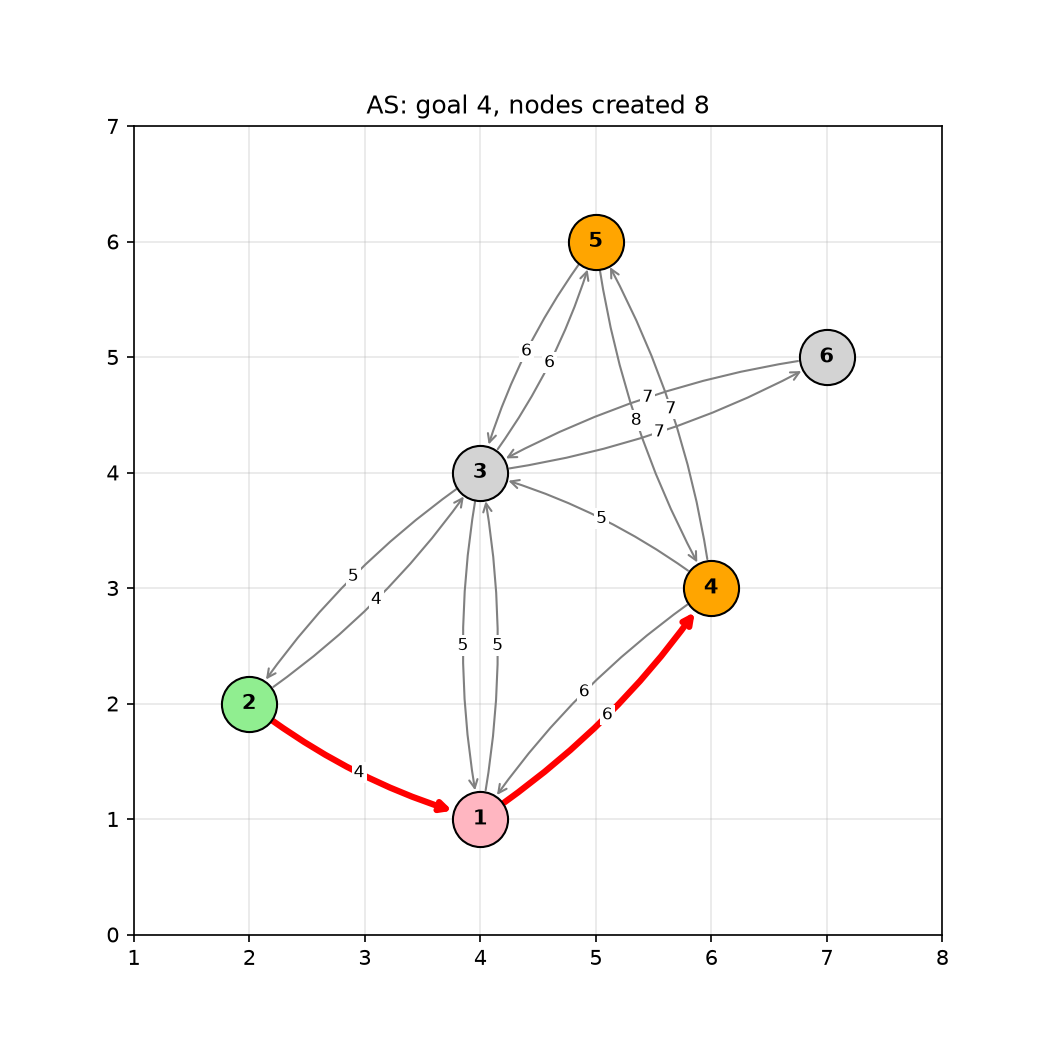
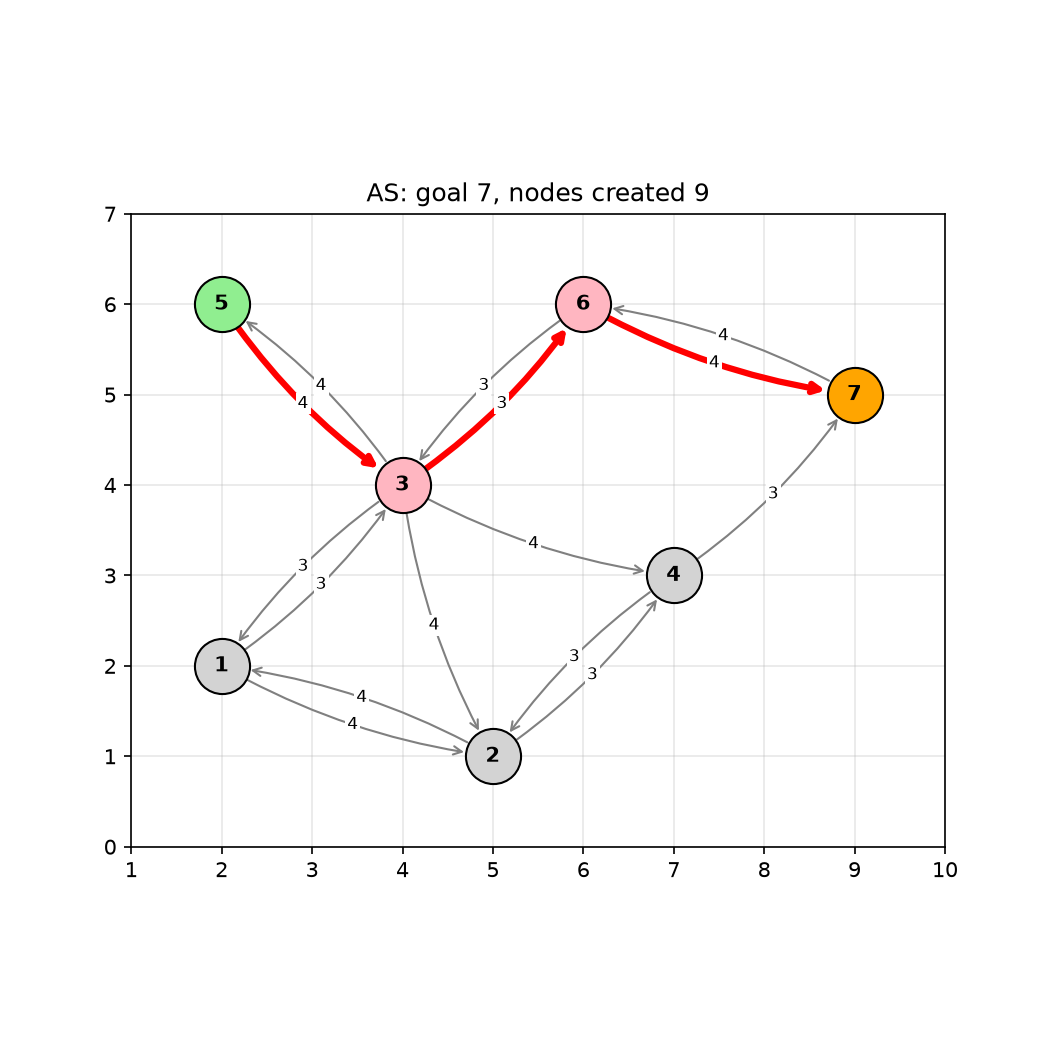
update on All
Connected all BFS, DFS, AND GBFS to the core, search, and visualize.py

diff --git a/gbfs.py b/gbfs.py
@@ -24,9 +24,12 @@ def gbfs(nodes, graph, origin, destinations):
                 frontier,
                 (heuristic(nxt, destinations, nodes), nxt, counter, path + [nxt]),
             )
-    return None
+    return None, created, []
 
-def search():
+def search(nodes, graph, origin, destinations):
+    return gbfs(nodes, graph, origin, destinations)
+
+def main():
     if len(sys.argv) != 3:
         print("Usage: python gbfs.py <filename> <method>")
         return
@@ -40,12 +43,12 @@ def search():
 
     result = gbfs(nodes, graph, origin, destinations)
     print(f"{filename} {method}")
-    if result is None:
-        print("No goal is reachable; 0")
+    if result[0] is None:
+        print(f"No goal is reachable; {result[1]}")
     else:
         goal, created, path = result
         print(f"{goal} {created}")
         print(" ".join(map(str, path)))
 
 if __name__ == "__main__":
-    search()
+    main()

diff --git a/dfs.py b/dfs.py
@@ -53,7 +53,11 @@ def dfs(nodes, edges, origin, destinations):
             created += 1
             frontier.append(path + [nxt])
 
-    return None, created, None
+    return None, created, []
+
+
+def search(nodes, graph, origin, destinations):
+    return dfs(nodes, graph, origin, destinations)
 
 
 def main():

diff --git a/bfs.py b/bfs.py
@@ -54,7 +54,11 @@ def bfs(nodes, edges, origin, destinations):
             created += 1
             frontier.append(path + [nxt])
 
-    return None
+    return None, created, []
+
+
+def search(nodes, graph, origin, destinations):
+    return bfs(nodes, graph, origin, destinations)
 
 
 def main():

diff --git a/search.py b/search.py
@@ -42,4 +42,5 @@ def main():
         # line 3: the path
         print(" ".join(str(n) for n in path))
 
-main()
+if __name__ == "__main__":
+    main()
